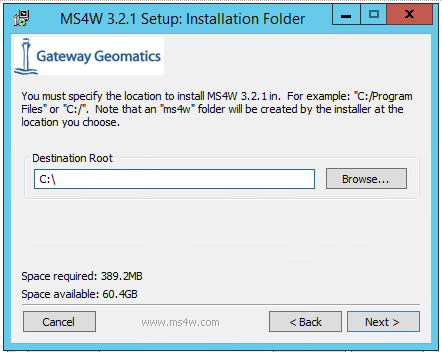
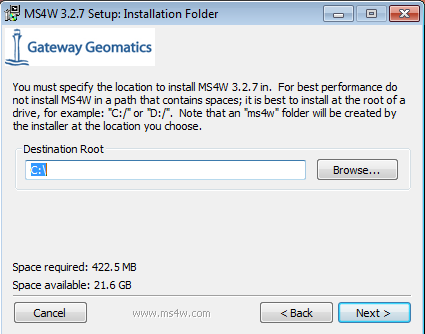
Workshop updates from UMGEOCON 2018.

diff --git a/docs/workshop/index.md b/docs/workshop/index.md
@@ -1,8 +1,8 @@
 ---
-title: GeoMoose 3.0 Workshop
+title: GeoMoose 3.2 Workshop
 author: Dan "Ducky" Little / @theduckylittle
 date: 15 August 2017
-version: 3.0.0
+version: 3.2.0
 output:
     beamer_presentation:
         slide_level: 2
@@ -25,7 +25,7 @@ fontsize: 8pt
 ## Who is this workshop for?
 
 * Anyone wanting to have a WebGIS application for their users.
-* "GIS Admins" - People who have data and want to get it out.
+* "GIS Admins" - People who have data and want to serve it on the web.
 * Developers who don't want to repeat themselves.
 
 # Installing MS4W
@@ -41,18 +41,13 @@ Requirements:
 
  * A computer running Windows 7 or newer.
  * A copy of MS4W.  [Download Here.](http://ms4w.com)
- * A copy of the GeoMoose Demo Data. [Download Here.](https://www.geomoose.org/downloads/gm3-demo-data-3.0.0-ms4w.zip)
- * A copy of the GeoMoose MS4W Package [Download Here.](https://www.geomoose.org/downloads/gm3-examples-3.0.0-ms4w.zip)
 
 
 ## Install MS4W
 
-**Double click the ms4w-3.2.2-setup.exe icon.**
+**Double click the ms4w-3.2.7-setup.exe icon.**
 
-
-MapServer for Windows does come with an older version of GeoMoose,
-but it is recommended to skip that and install the latest and greatest version
-for the full Moose experience.
+Ensure the checkbox for **GeoMoose 3.2.0 is checked.**
 
 ![ms4w setup screen 1](../ms4w-quickstart/ms4w-setup-1.png)
 
@@ -75,28 +70,7 @@ You can validate the ms4w installation by navigating to [localhost](http://local
 
 ![working ms4w](../ms4w-quickstart/ms4w-success.png)
 
-# Installing GeoMoose
-
-## Install the GeoMoose Demo Data
-
-Extract the `gm3-demo-data-3.0.0-ms4w.zip` to the `C:\` directory. This will unzip mapfiles and shapefiles used to power the GeoMoose examples.
-
-![geomoose extract zip](../ms4w-quickstart/geomoose-setup-1.png)
-
-
-## Install the GeoMoose SDK and examples
-
-Extract the `gm3-examples-3.0.0-ms4w.zip` to the `C:\` directory. Everything in it is already set to install where needed within the ms4w subdirectories including Apache, Apps, and httpd.d.
-
-![geomoose extract zip](../ms4w-quickstart/geomoose-setup-1.png)
-
-## Restart Apache
-
-Once extracted, restart the Apache MS4W Service.
-
-![restart windows apache service](../ms4w-quickstart/geomoose-setup-2.png)
-
-## Back to the browser
+## Find the GeoMoose listing
 
 GeoMoose will now show up on the MS4W [localhost](http://localhost/) page under applications
 
@@ -339,6 +313,25 @@ from a layer it needs to have a `mapserver-wfs`, `wfs` or `ags-vector` source.
 ```
 <!-- {% endraw %} -->
 
+## Tweak the raster Firestations layer
+
+* The vector version of the layer needs to be "referenced" by the
+  raster version.
+
+From:
+<!-- {% raw %} -->
+```
+<layer name="fire_stations">
+```
+<!-- {% endraw %} -->
+
+To:
+<!-- {% raw %} -->
+```
+<layer name="fire_stations" query-as="firestations-wfs/fire_stations">
+```
+<!-- {% endraw %} -->
+
 ## Reload and select Firestations
 
 * Back in the browser, reload the page, and click 'Select' from the toolbar.
@@ -389,9 +382,6 @@ from a layer it needs to have a `mapserver-wfs`, `wfs` or `ags-vector` source.
 ## GeoMoose is very HTML, such CSS.
 
 * Chrome and Firefox both have excellent DOM/CSS Inspection tools.
-* GeoMoose's desktop example will try to load `site.css` from `index.html`.
-  This file is intentionally not included.  `site.css` provides a place
-  for custom CSS themes that will not ever be overwritten during upgrades.
 
 ## Let's tweak the toolbar!
 
@@ -404,6 +394,26 @@ from a layer it needs to have a `mapserver-wfs`, `wfs` or `ags-vector` source.
     display: none;
 }
 ```
+
+## Now add the cite.css file to our HTML
+
+* Luckily GeoMoose has envisioned the need to customize the look!
+
+Change line 9 of `index.html from:
+
+<!-- {% raw %} -->
+```
+<!--link rel="stylesheet" type="text/css" href="site.css"/-->
+```
+<!-- {% endraw %} -->
+
+To:
+
+<!-- {% raw %} -->
+```
+<link rel="stylesheet" type="text/css" href="site.css"/>
+```
+<!-- {% endraw %} -->
 
 ## And change the icon!
 

diff --git a/docs/workshop/workshop_helper.md b/docs/workshop/workshop_helper.md
@@ -1,0 +1,119 @@
+# Workshop Helper
+
+## Batteries are included with Firestations
+
+```
+<map-source name="firestations" type="mapserver">
+  <file>./demo/firestations/firestations.map</file>
+  <layer name="fire_stations"/>
+</map-source>
+```
+
+## Add Firestations to the catalog
+
+Find the `<catalog>` line in the mapbook and add this afterwards:
+
+```
+<layer src="firestations/fire_stations" title="Firestations"/>
+```
+
+## Adding Identify to Firestations
+
+```
+<map-source name="firestations" type="mapserver">
+    <file>./demo/firestations/firestations.map</file>
+    <layer name="fire_stations">
+    <template name="identify"><![CDATA[
+        <div class="result-item">
+            <div class="result-title">
+            Firestation
+            </div>
+            <b>Station City:</b> {{ properties.Dak_GIS__4 }}<br>
+            <b>Station Number:</b> {{ properties.Dak_GIS__5 }}<br>
+        </div>
+    ]]></template>
+</layer>
+</map-source>
+```
+
+## Adding Select
+
+```
+<map-source name="firestations-wfs" type="mapserver-wfs">
+    <file>./demo/firestations/firestations.map</file>
+    <param name="typename" value="ms:fire_stations" />
+    <layer name="fire_stations" selectable="true" title="Firestations">
+    <template name="select"><![CDATA[
+        <div class="result-item">
+            <div class="result-title">
+            Firestation
+            </div>
+            <b>Station City:</b> {{ properties.Dak_GIS__4 }}<br>
+            <b>Station Number:</b> {{ properties.Dak_GIS__5 }}<br>
+        <div>
+        ]]></template>
+    </layer>
+</map-source>
+```
+
+## Tweak the Firestations layer
+
+```
+<layer name="fire_stations" query-as="firestations-wfs/fire_stations">
+```
+
+## CSS
+
+```
+.toolbar .tool.findme .label {
+    display: none;
+}
+```
+
+```
+/* Remove the webfont icon */
+.toolbar .tool.findme .icon:before {
+    content: '';
+}
+
+/* Add the moose! */
+.toolbar .tool.findme .icon {
+    width: 1em;
+    height: 1em;
+    box-sizing: border-box;
+    background-image: url(./logo-mini.png);
+}
+```
+
+```
+#header {
+    background: linear-gradient(to right, lightgreen, grey);
+}
+```
+
+## Adding a GeoJSON Layer
+
+```
+<map-source name="cities" type="geojson">
+    <url>./cities.geojson</url>
+    <layer name="all-cities">
+    <style><![CDATA[
+    {
+        "circle-radius" : 5,
+        "circle-color": "blue",
+        "text-font": ["Arial", "Open Sans Regular"],
+        "text-field": "{city}",
+        "text-jusitfy": "right",
+        "text-anchor": "right"
+    }
+    ]]></style>
+    </layer>
+</map-source>
+```
+
+## Catalog layer
+
+```
+<layer src="cities/all-cities" title="World Cities" />
+```
+
